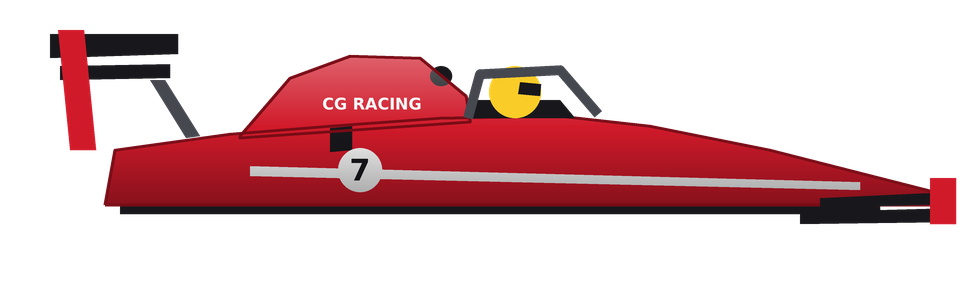
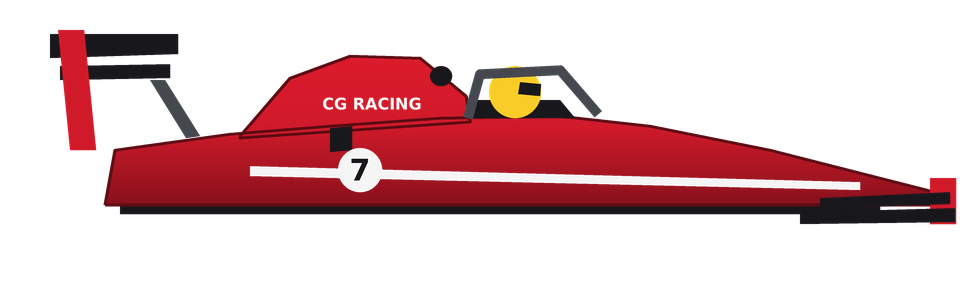
Arte do F1 em camadas (pintura tingível) e céu lunar

diff --git a/Tools/gerar_f1.py b/Tools/gerar_f1.py
@@ -1,8 +1,11 @@
-"""Gera a arte HD do F1 (vista lateral, frente para +x), da roda e dos coletáveis.
-Uso: python3 -I Tools/gerar_f1.py CarroCG/Assets/Art/F1
-Coordenadas em pixels de uma tela 960x300, y para baixo. No Unity: PPU 256 (F1) e 200 (coletáveis).
-Layout usado pelo Editor/MontarJogo.cs: rodas em (190,178) e (770,178), raio 92; capacete em (515,92)."""
-import math, os, sys
+"""Gera a arte HD do F1 (vista lateral, frente para +x), da roda, dos coletáveis e do céu lunar.
+Uso: python3 -I Tools/gerar_f1.py CarroCG/Assets/Art
+Saídas em F1/: f1_atras.png, f1_pintura.png (cinza claro, tingida no Unity pela cor da garagem), f1_frente.png,
+f1_corpo.png (silhueta completa em vermelho, usada no collider), f1_roda.png, moeda.png, galao.png.
+Saídas em Ceu/: estrelas.png, terra.png.
+Coordenadas do F1 em pixels de 960x300, y para baixo. PPU 256 no Unity.
+Layout usado por Editor/MontagemComum.cs: rodas em (190,178) e (770,178), raio 92; capacete em (515,92)."""
+import math, os, random, sys
 from PIL import Image, ImageChops, ImageDraw, ImageFont
 
 S = 4                                   # supersampling
@@ -11,6 +14,14 @@ RODA_R = 92
 VERMELHO, VERMELHO_ESC = (208, 26, 42, 255), (120, 12, 22, 255)
 BRANCO, PRETO, CINZA = (245, 245, 245, 255), (24, 24, 28, 255), (70, 72, 80, 255)
 AMARELO, OURO, OURO_ESC = (250, 204, 40, 255), (250, 196, 40, 255), (176, 124, 14, 255)
+BASE_PINTURA, CONTORNO_PINTURA = (215, 215, 215, 255), (95, 95, 95, 255)
+TINTA_VERMELHA = (247, 31, 50)          # base 215 x tinta = vermelho original (208, 26, 42)
+
+CHASSI = [(105, 205), (115, 150), (230, 134), (330, 126), (440, 118), (560, 116), (650, 126),
+          (770, 150), (880, 178), (935, 192), (935, 205)]
+COBERTURA = [(240, 136), (290, 78), (350, 56), (420, 58), (466, 96), (470, 122), (240, 138)]
+PLACA_TRASEIRA = [(58, 30), (84, 30), (96, 150), (70, 150)]
+PLACA_DIANTEIRA = [(930, 178), (956, 178), (956, 224), (930, 224)]
 
 def s(pts): return [(x * S, y * S) for x, y in pts]
 
@@ -31,50 +42,59 @@ def sombrear(img, mascara, y0, y1):
     return Image.alpha_composite(img, grad)
 
 def reduzir(img, w, h): return img.resize((w, h), Image.LANCZOS)
+def tela(): return Image.new('RGBA', (W * S, H * S))
 
-CHASSI = [(105, 205), (115, 150), (230, 134), (330, 126), (440, 118), (560, 116), (650, 126),
-          (770, 150), (880, 178), (935, 192), (935, 205)]
-COBERTURA = [(240, 136), (290, 78), (350, 56), (420, 58), (466, 96), (470, 122), (240, 138)]
+def tingir(img, cor):
+    r, g, b, a = img.split()
+    r, g, b = (canal.point(lambda v, c=c: v * c // 255) for canal, c in zip((r, g, b), cor))
+    return Image.merge('RGBA', (r, g, b, a))
 
-def corpo():
-    img = Image.new('RGBA', (W * S, H * S))
+def camada_atras():
+    img = tela()
     d = ImageDraw.Draw(img)
-    # suspensões (ficam atrás das rodas)
     for a, b in [((250, 150), (190, 178)), ((250, 195), (190, 178)), ((700, 150), (770, 178)), ((700, 190), (770, 178))]:
-        d.line(s([a, b]), fill=CINZA, width=4 * S)
-    # asa traseira
-    d.polygon(s([(150, 80), (165, 80), (200, 136), (186, 138)]), fill=CINZA)
-    d.polygon(s([(50, 34), (178, 34), (178, 54), (50, 58)]), fill=PRETO)
+        d.line(s([a, b]), fill=CINZA, width=4 * S)                                           # suspensões
+    d.polygon(s([(150, 80), (165, 80), (200, 136), (186, 138)]), fill=CINZA)                 # pilone
+    d.polygon(s([(50, 34), (178, 34), (178, 54), (50, 58)]), fill=PRETO)                     # asa traseira
     d.polygon(s([(60, 66), (170, 64), (170, 78), (60, 80)]), fill=PRETO)
-    d.polygon(s([(58, 30), (84, 30), (96, 150), (70, 150)]), fill=VERMELHO)
-    # assoalho
-    d.polygon(s([(120, 200), (880, 200), (880, 214), (120, 214)]), fill=PRETO)
-    # chassi + cobertura do motor
+    d.polygon(s([(120, 200), (880, 200), (880, 214), (120, 214)]), fill=PRETO)               # assoalho
+    return reduzir(img, W, H)
+
+def camada_pintura():
+    img = tela()
+    d = ImageDraw.Draw(img)
     mascara = Image.new('L', img.size)
     dm = ImageDraw.Draw(mascara)
     for poly in (CHASSI, COBERTURA):
-        d.polygon(s(poly), fill=VERMELHO)
+        d.polygon(s(poly), fill=BASE_PINTURA)
         dm.polygon(s(poly), fill=255)
+    img = sombrear(img, mascara, 56, 214)
+    d = ImageDraw.Draw(img)
+    for poly in (CHASSI, COBERTURA):
+        d.line(s(poly + [poly[0]]), fill=CONTORNO_PINTURA, width=3 * S, joint='curve')
+    for poly in (PLACA_TRASEIRA, PLACA_DIANTEIRA):
+        d.polygon(s(poly), fill=BASE_PINTURA)
+    return reduzir(img, W, H)
+
+def camada_frente():
+    img = tela()
+    d = ImageDraw.Draw(img)
     d.polygon(s([(250, 166), (860, 182), (860, 190), (250, 176)]), fill=BRANCO)             # faixa
     d.polygon(s([(330, 128), (352, 126), (352, 150), (330, 152)]), fill=PRETO)              # entrada do sidepod
     d.ellipse(s([(430, 66), (452, 86)]), fill=PRETO)                                        # airbox
     d.ellipse(s([(338, 148), (382, 192)]), fill=BRANCO)                                     # número
     d.text((360 * S, 170 * S), '7', font=fonte(30), fill=PRETO, anchor='mm')
     d.text((372 * S, 104 * S), 'CG RACING', font=fonte(16), fill=BRANCO, anchor='mm')
-    img = sombrear(img, mascara, 56, 214)
-    d = ImageDraw.Draw(img)
-    for poly in (CHASSI, COBERTURA):
-        d.line(s(poly + [poly[0]]), fill=VERMELHO_ESC, width=3 * S, joint='curve')
-    # cockpit, piloto, halo
-    d.polygon(s([(470, 118), (476, 100), (560, 100), (575, 118)]), fill=PRETO)
-    d.ellipse(s([(489, 66), (541, 118)]), fill=AMARELO)
-    d.polygon(s([(520, 82), (541, 84), (540, 96), (518, 94)]), fill=PRETO)
-    d.line(s([(468, 118), (480, 74), (560, 70), (598, 114)]), fill=CINZA, width=10 * S, joint='curve')
-    # asa dianteira
-    d.polygon(s([(800, 212), (955, 208), (955, 222), (800, 224)]), fill=PRETO)
+    d.polygon(s([(470, 118), (476, 100), (560, 100), (575, 118)]), fill=PRETO)              # cockpit
+    d.ellipse(s([(489, 66), (541, 118)]), fill=AMARELO)                                     # capacete
+    d.polygon(s([(520, 82), (541, 84), (540, 96), (518, 94)]), fill=PRETO)                  # viseira
+    d.line(s([(468, 118), (480, 74), (560, 70), (598, 114)]), fill=CINZA, width=10 * S, joint='curve')  # halo
+    d.polygon(s([(800, 212), (955, 208), (955, 222), (800, 224)]), fill=PRETO)              # asa dianteira
     d.polygon(s([(820, 198), (950, 192), (950, 204), (820, 208)]), fill=PRETO)
-    d.polygon(s([(930, 178), (956, 178), (956, 224), (930, 224)]), fill=VERMELHO)
     return reduzir(img, W, H)
+
+def corpo(atras, pintura, frente):
+    return Image.alpha_composite(Image.alpha_composite(atras, tingir(pintura, TINTA_VERMELHA)), frente)
 
 def roda():
     n = RODA_R * 2
@@ -110,14 +130,48 @@ def galao():
     d.rounded_rectangle(s([(22, 30), (106, 120)]), radius=12 * S, fill=VERMELHO, outline=VERMELHO_ESC, width=5 * S)
     d.rounded_rectangle(s([(40, 12), (88, 32)]), radius=6 * S, fill=PRETO)
     d.rectangle(s([(52, 18), (76, 26)]), fill=(0, 0, 0, 0))
-    d.ellipse(s([(48, 62), (80, 98)]), fill=BRANCO)                                         # gota
+    d.ellipse(s([(48, 62), (80, 98)]), fill=BRANCO)
     d.polygon(s([(50, 72), (64, 44), (78, 72)]), fill=BRANCO)
     return reduzir(img, n, n)
 
+def estrelas():
+    rnd = random.Random(3)
+    img = Image.new('RGBA', (1024, 512))
+    d = ImageDraw.Draw(img)
+    for _ in range(420):
+        x, y, r = rnd.uniform(0, 1024), rnd.uniform(0, 512), rnd.choice([0.6, 0.8, 1.0, 1.4, 2.0])
+        d.ellipse([x - r, y - r, x + r, y + r], fill=(255, 255, 255, rnd.randint(140, 255)))
+    return img
+
+def terra():
+    n, rnd = 256, random.Random(5)
+    img = Image.new('RGBA', (n * S, n * S))
+    d = ImageDraw.Draw(img)
+    d.ellipse(s([(8, 8), (248, 248)]), fill=(40, 110, 200, 255))                             # oceano
+    for _ in range(9):                                                                     # continentes
+        x, y, rx, ry = rnd.uniform(40, 216), rnd.uniform(40, 216), rnd.uniform(14, 40), rnd.uniform(10, 30)
+        d.ellipse(s([(x - rx, y - ry), (x + rx, y + ry)]), fill=(70, 160, 80, 255))
+    for _ in range(7):                                                                     # nuvens
+        x, y, rx = rnd.uniform(40, 216), rnd.uniform(40, 216), rnd.uniform(18, 46)
+        d.ellipse(s([(x - rx, y - 6), (x + rx, y + 6)]), fill=(255, 255, 255, 150))
+    mascara = Image.new('L', img.size)
+    ImageDraw.Draw(mascara).ellipse(s([(8, 8), (248, 248)]), fill=255)
+    sombra = Image.new('RGBA', img.size)                                                   # lado da noite
+    ImageDraw.Draw(sombra).ellipse(s([(70, -20), (330, 280)]), fill=(0, 0, 20, 150))
+    img = Image.alpha_composite(img, sombra)
+    img.putalpha(ImageChops.multiply(img.split()[3], mascara))
+    return reduzir(img, n, n)
+
 if __name__ == '__main__':
-    saida = sys.argv[1]
-    os.makedirs(saida, exist_ok=True)
-    for nome, fazer in [('f1_corpo', corpo), ('f1_roda', roda), ('moeda', moeda), ('galao', galao)]:
-        caminho = os.path.join(saida, nome + '.png')
-        fazer().save(caminho)
+    raiz = sys.argv[1]
+    f1, ceu = os.path.join(raiz, 'F1'), os.path.join(raiz, 'Ceu')
+    os.makedirs(f1, exist_ok=True)
+    os.makedirs(ceu, exist_ok=True)
+    atras, pintura, frente = camada_atras(), camada_pintura(), camada_frente()
+    saidas = [(f1, 'f1_atras', atras), (f1, 'f1_pintura', pintura), (f1, 'f1_frente', frente),
+              (f1, 'f1_corpo', corpo(atras, pintura, frente)), (f1, 'f1_roda', roda()), (f1, 'moeda', moeda()),
+              (f1, 'galao', galao()), (ceu, 'estrelas', estrelas()), (ceu, 'terra', terra())]
+    for pasta, nome, img in saidas:
+        caminho = os.path.join(pasta, nome + '.png')
+        img.save(caminho)
         print(caminho)
